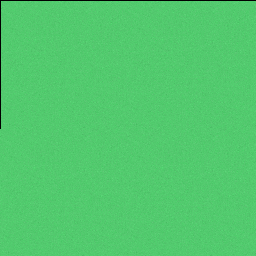
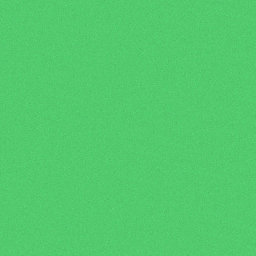
Plant growing

Changed region(s): [[0.0, 0.0, 1.0, 0.5]]

diff --git a/game/unit_logic/tasks.py b/game/unit_logic/tasks.py
@@ -24,3 +24,24 @@ class HarvestOlives(Task):
             task_steps.HarvestStep(plant)
             ]
         super().__init__(title, steps, assignee)
+
+
+class StoreOlives(Task):
+    def __init__(self, storage, assignee=None):
+        title = "Store olives at " + str(storage.topleft)
+        steps = [
+            task_steps.MoveTo(storage.topleft),
+            task_steps.StoreStep(storage)
+            ]
+        super().__init__(title, steps, assignee)
+
+class HarvesAndStore(Task):
+    def __init__(self, plant, storage, assignee=None):
+        title = "Harvest and store olives"
+        steps = [
+            task_steps.MoveTo(plant.topleft),
+            task_steps.HarvestStep(plant),
+            task_steps.MoveTo(storage.topleft),
+            task_steps.StoreStep(storage)
+            ]
+        super().__init__(title, steps, assignee)

diff --git a/game/task.py b/game/task.py
@@ -1,10 +1,6 @@
-from .task_steps import TASK_COMPLETED
-
-
 class Task:
     def __init__(self, title, steps=[], assignee=None):
         self.title = title
-        self.completed = False
         self.steps = steps
         self.current_substep_index = 0
         self.assignee = assignee
@@ -19,8 +15,3 @@ class Task:
             if len(self.steps) == 0:
                 return True
         return False
-
-    def complete(self):
-        print("completed task!!!")
-        self.completed = True
-        return self.completed

diff --git a/game/unit_logic/task_steps.py b/game/unit_logic/task_steps.py
@@ -45,6 +45,16 @@ class HarvestStep(TaskStep):
         return True
 
 
+class StoreStep(TaskStep):
+    def __init__(self, storage, *args, **kwargs):
+        title = "Storing"
+        super().__init__(title)
+        self.storage = storage
+
+    def act(self, assignee, task):
+        self.storage.deliver_olive()
+        return True
+
 
 FARM = TaskStep("Do farming", [])
 GO_HOME = TaskStep("Go home", [])

diff --git a/game/buildings/home.py b/game/buildings/home.py
@@ -1,7 +1,7 @@
 from .building import Building
 
 class Home(Building):
-    sprite = ["frog"]
+    frames = ["storage"]
     graphic_layer = 1
 
     def __init__(self, GAME, pos):

diff --git a/game/level.py b/game/level.py
@@ -1,5 +1,5 @@
 class ExampleLevel:
-    background = "checker_dark"
+    background = "plains"
 
     def __init__(self, GAME):
         self.GAME = GAME
